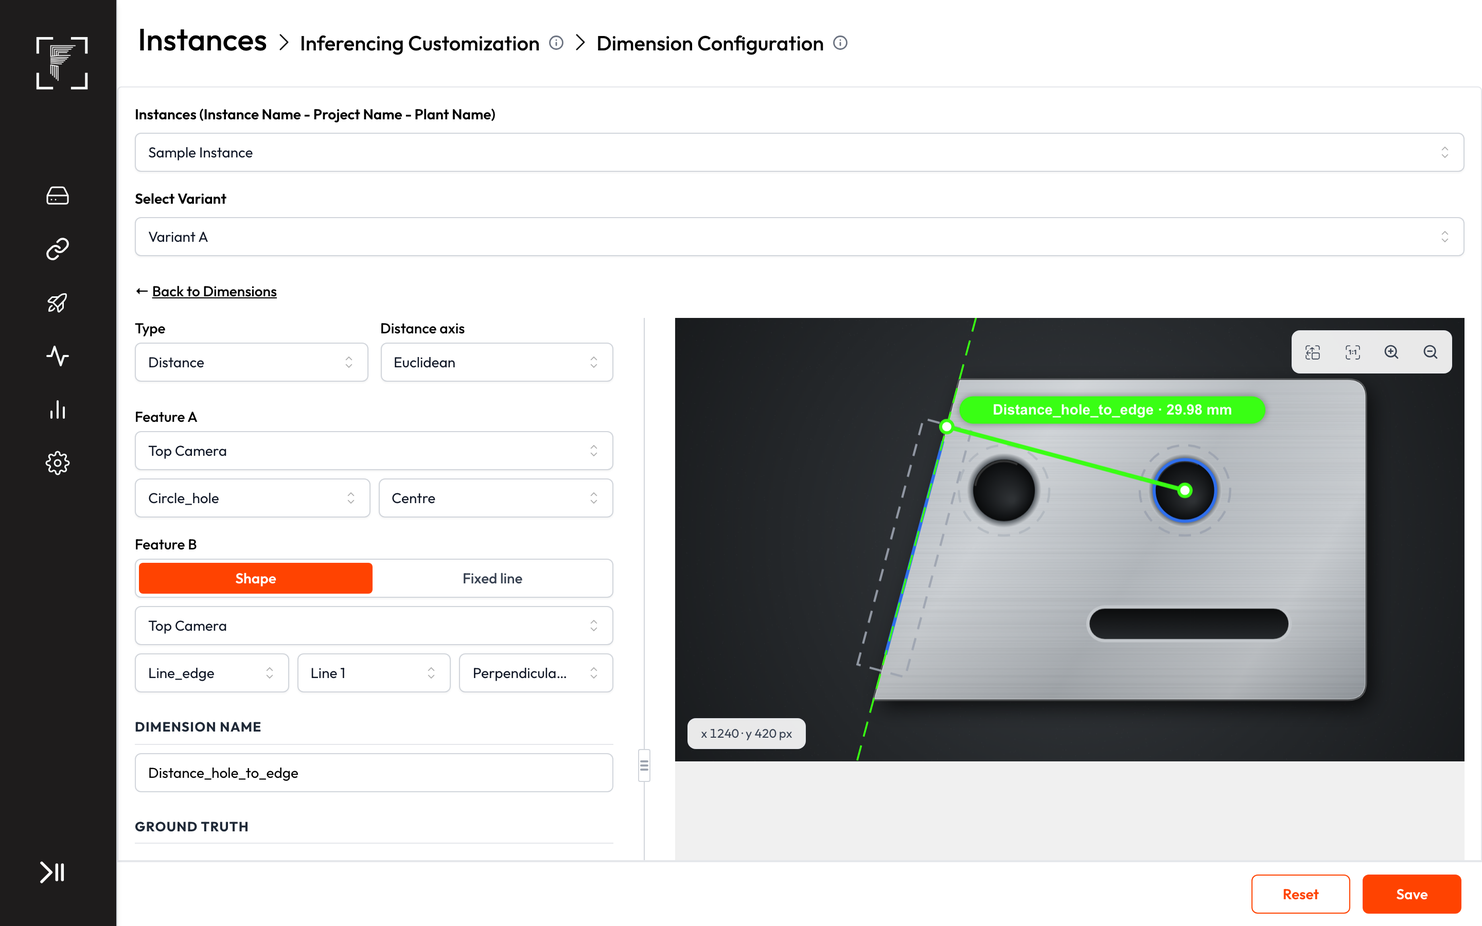
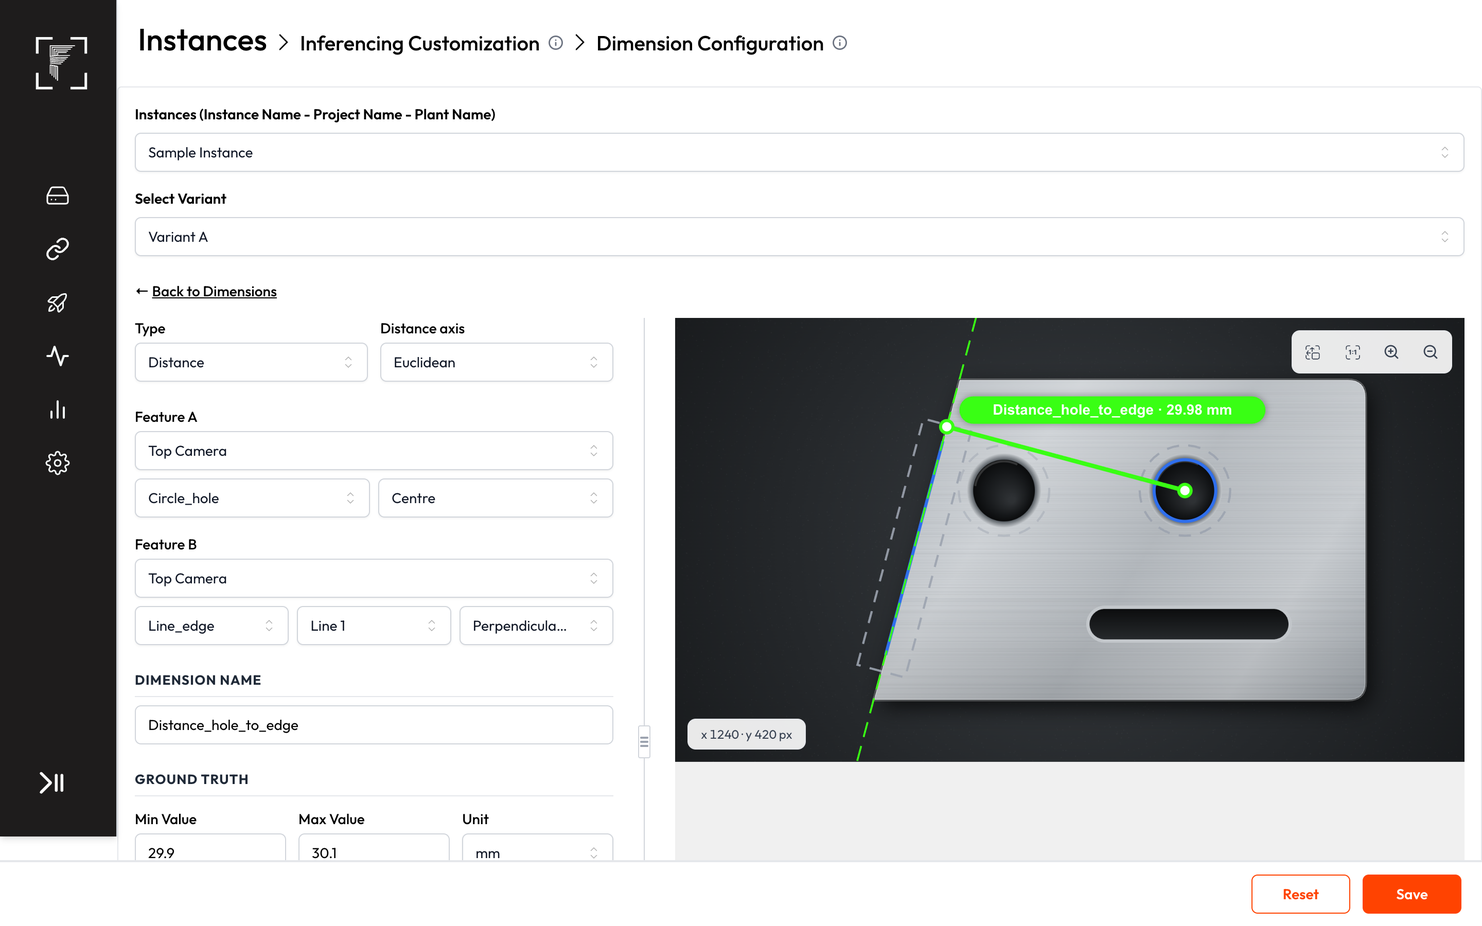
Fixed line in Feature B's Shape dropdown, Angle type rename, analysed-image toggle and colour

diff --git a/dimension-config.html b/dimension-config.html
@@ -197,6 +197,11 @@ table.tbl{min-width:100%;width:100%;border-collapse:collapse;text-indent:0}
 .tip.sbt{border:0;max-width:200px;background:#ff4301;padding:6px 10px;font-weight:600;color:#fff;box-shadow:0 4px 12px rgba(0,0,0,.3)}
 
 /* ===== DECIDED CHANGE (After mode): segmented controls ===== */
+.tgl{display:flex;align-items:center;width:48px;height:24px;padding:4px 0;border-radius:9999px;background:#d1d5db;cursor:pointer;flex-shrink:0}
+.tgl.on{background:#ff4301}
+.tgl-k{width:20px;height:20px;background:#fff;border-radius:9999px;box-shadow:0 4px 6px -1px rgba(0,0,0,.1),0 2px 4px -2px rgba(0,0,0,.1);transition:transform .15s}
+.tgl.on .tgl-k{transform:translateX(24px)}
+.tgl-l{font-size:14px;line-height:20px;font-weight:500;color:#000}
 .seg{display:grid;gap:3px;border:1px solid #d1d5db;border-radius:6px;background:#fff;padding:3px;box-shadow:0 1px 2px 0 rgba(0,0,0,.05)}
 .seg button{border-radius:4px;padding:5px 8px;font-size:14px;line-height:20px;font-weight:500;color:#374151;white-space:nowrap;overflow:hidden;text-overflow:ellipsis}
 .seg button:hover{background:#f3f4f6}
@@ -225,14 +230,14 @@ table.tbl{min-width:100%;width:100%;border-collapse:collapse;text-indent:0}
  * ========================================================================= */
 var Q = new URLSearchParams(location.search);
 var IN_IFRAME = (function () { try { return window.self !== window.top; } catch (e) { return true; } })();
-var VALID_STATES = ['list', 'shape-value', 'distance', 'distance-vertical', 'distance-tilted', 'gt', 'gt-px', 'angle', 'cross', 'saved'];
+var VALID_STATES = ['list', 'shape-value', 'distance', 'distance-vertical', 'distance-tilted', 'line', 'gt', 'gt-px', 'angle', 'cross', 'saved'];
 var MODE = Q.get('mode') === 'today' ? 'today' : 'after';
 var STATE = VALID_STATES.indexOf(Q.get('state')) >= 0 ? Q.get('state') : 'list';
 var SHOW_SWITCH = !IN_IFRAME && Q.get('switch') !== '0';
-var SCROLL_TO = Q.get('scroll') || (STATE === 'gt' || STATE === 'gt-px' ? 'gt' : '');
+var SCROLL_TO = Q.get('scroll') || (STATE === 'gt' || STATE === 'gt-px' ? 'gt' : (STATE === 'line' ? 'col' : ''));
 function isAfter() { return MODE === 'after'; }
 function effState() {
-  if (MODE === 'today' && (STATE === 'distance-vertical' || STATE === 'distance-tilted')) return 'distance';
+  if (MODE === 'today' && (STATE === 'distance-vertical' || STATE === 'distance-tilted' || STATE === 'line')) return 'distance';
   return STATE;
 }
 function nav(to) {
@@ -282,7 +287,7 @@ var DERIV_PREV_LINE = 'Perpendicular from Previous Line';
  * Shared state with the other prototype screens (localStorage)
  * ========================================================================= */
 var LS_KEY = 'fixedline-proto-v2';
-var SHARED_DEFAULTS = { dimType: 'distance', lineMode: 'horizontal', y: 540, x: 960, cx: 960, cy: 540, angle: 30, refAngle: 30, name: 'Distance_hole_to_datum', min: 5, max: 7, unit: 'mm', ratio: 0.05, okColor: '#39FF14', ngColor: '#FF0000', shape: null };
+var SHARED_DEFAULTS = { dimType: 'distance', lineMode: 'horizontal', y: 540, x: 960, cx: 960, cy: 540, angle: 30, refAngle: 30, name: 'Distance_hole_to_datum', min: 5, max: 7, unit: 'mm', ratio: 0.05, okColor: '#39FF14', ngColor: '#FF0000', showLine: false, lineColor: '#FFFF33', shape: null };
 function sanitizeShapeRow(o) {
   if (!o || typeof o !== 'object' || typeof o.name !== 'string' || !o.name.trim()) return null;
   var n = function (v) { var x = Number(v); return v === null || v === undefined || v === '' || !Number.isFinite(x) ? null : x; };
@@ -302,6 +307,8 @@ function sanitizeShared(o) {
   if (['mm', 'px', '°'].indexOf(o.unit) >= 0) d.unit = o.unit;
   if (/^#[0-9A-Fa-f]{6}$/.test(o.okColor || '')) d.okColor = o.okColor;
   if (/^#[0-9A-Fa-f]{6}$/.test(o.ngColor || '')) d.ngColor = o.ngColor;
+  if (typeof o.showLine === 'boolean') d.showLine = o.showLine;
+  if (/^#[0-9A-Fa-f]{6}$/.test(o.lineColor || '')) d.lineColor = o.lineColor;
   return d;
 }
 function readShared() { try { var raw = localStorage.getItem(LS_KEY); return sanitizeShared(raw ? JSON.parse(raw) : null); } catch (e) { return Object.assign({}, SHARED_DEFAULTS); } }
@@ -472,7 +479,13 @@ function hasErrors(e) { return Object.keys(e).length > 0; }
  * ========================================================================= */
 var FIXED = {
   // Copy / options
-  B_KINDS: [['shape', 'Shape'], ['fixed', 'Fixed line']],
+  SHAPE_OPTION: { id: '__fixed', name: 'Fixed line' },   // last entry of a Distance's Feature B Shape dropdown
+  LINE_TYPE_PLACEHOLDER: 'Line type',
+  SHOW_LINE_LABEL: 'Show the fixed line on inferenced image',
+  LINE_COLOUR_LABEL: 'Fixed line colour',
+  DEFAULT_LINE_COLOR: '#FFFF33',  // yellow
+  ANGLE_TYPE_LABEL: 'Angle type',
+  TWO_FEATURES_NAME: 'Between two features',
   LINE_MODES: [['horizontal', 'Horizontal (y =)'], ['vertical', 'Vertical (x =)'], ['tilted', 'Tilted']],
   ANGLE_OPTION: { id: 'fixed', name: 'From a fixed line' },
   ANGLE_LABEL: 'Angle',           // the one box shown for Angle → From a fixed line
@@ -481,7 +494,7 @@ var FIXED = {
   SHOW_READOUT: true,             // live cursor read-out on the single-capture canvas
   PILL_GAP: 6,                    // on-screen px between a label pill and what it measures
 
-  angleModes: function () { return [ANGLE_MODES_TODAY[0], ANGLE_MODES_TODAY[1], FIXED.ANGLE_OPTION, ANGLE_MODES_TODAY[2]]; },
+  angleModes: function () { return [ANGLE_MODES_TODAY[0], ANGLE_MODES_TODAY[1], FIXED.ANGLE_OPTION, { id: 'two', name: FIXED.TWO_FEATURES_NAME }]; },
 
   // Defaults applied when "Fixed line" is picked: Horizontal at the image's middle row.
   applyDefaults: function (fx, cap) { var s = imgSizeOf(cap); fx.mode = 'horizontal'; fx.y = String(s.h / 2); fx.cap = cap; },
@@ -589,15 +602,31 @@ var FIXED = {
         : [['fixed.cx', 'Centre x', fx.cx, 'px', 'fixedCx'], ['fixed.cy', 'Centre y', fx.cy, 'px', 'fixedCy'], ['fixed.angle', 'Angle', fx.angle, '°', 'fixedAngle']];
     return '<div class="g3 gap2">' + cells.map(function (c) { return numberTextField(c[0], c[1], c[2], c[3], c[4], { pattern: 'fixed' }); }).join('') + '</div>';
   },
-  // Distance: Feature B gets "Shape | Fixed line" at its top.
-  featureBBlock: function (f, shapeInner) {
-    var html = '<div class="min0"><label class="fl">Feature B</label><div class="col gap2">' + FIXED.segmented('bKind', FIXED.B_KINDS, f.bKind);
+  // Distance: "Fixed line" is the last entry of Feature B's Shape dropdown. Picking it swaps Part / Point
+  // for a Line type dropdown, then the line's boxes.
+  featureBBlock: function (f) {
+    var html = '<div class="min0"><label class="fl">Feature B</label><div class="col gap2">', warn = '';
     if (f.bKind === 'fixed') {
+      var capObj = capById(f.fixed.cap), types = shapeTypesFor(f.type);
+      var shapes = capObj ? capObj.shapes.filter(function (sh) { return types.indexOf(sh.type) >= 0; }) : [];
       html += selectInput('fixed.cap', { options: captureOptions(), value: f.fixed.cap, placeholder: 'Capture' });
-      html += FIXED.segmented('fixed.mode', FIXED.LINE_MODES, f.fixed.mode) + FIXED.inputs(f.fixed);
-    } else html += shapeInner;
-    html += '</div>' + fieldError('featureB') + '</div>';
+      html += '<div class="g2 gap2">' + selectInput('B.shape', { options: shapes.map(function (sh) { return { id: sh.id, name: sh.name }; }).concat([FIXED.SHAPE_OPTION]), value: FIXED.SHAPE_OPTION.id, placeholder: 'Shape' })
+        + selectInput('fixed.mode', { options: FIXED.LINE_MODES.map(function (m) { return { id: m[0], name: m[1] }; }), value: f.fixed.mode, placeholder: FIXED.LINE_TYPE_PLACEHOLDER }) + '</div>';
+      html += FIXED.inputs(f.fixed);
+    } else {
+      var inner = featurePickerInner(f, 'B', true, true, [FIXED.SHAPE_OPTION]);
+      html += inner.html; warn = inner.warn;
+    }
+    html += '</div>' + warn + fieldError('featureB') + '</div>';
     return html;
+  },
+  // Inference Line Colours: the toggle, and under it (when on) the line's own colour.
+  lineColourBlock: function (f, colour) {
+    var on = !!f.showLine;
+    var h = '<div class="row gap3" style="align-items:center"><div role="switch" aria-checked="' + on + '" class="tgl' + (on ? ' on' : '') + '" data-seg="showLine" data-val="' + (on ? 'off' : 'on') + '"><div class="tgl-k"></div></div>'
+      + '<span class="tgl-l">' + esc(FIXED.SHOW_LINE_LABEL) + '</span></div>';
+    if (on) h += '<div class="g2 gap3">' + colour('lineColor', FIXED.LINE_COLOUR_LABEL, f.lineColor) + '</div>';
+    return h;
   },
   // Angle: one box — the fixed line's angle. It runs through the middle of Feature A's line.
   angleBlock: function (f) {
@@ -711,10 +740,12 @@ function baseForm(S) {
     fixed: { cap: 'top', mode: S.lineMode, y: numText(S.y), x: numText(S.x), cx: numText(S.cx), cy: numText(S.cy), angle: numText(S.angle) },
     name: '', min: '', max: '', unit: 'mm', ratio: numText(S.ratio), offset: 0,
     okColor: S.okColor, ngColor: S.ngColor, labelSize: 'medium',
+    showLine: S.showLine, lineColor: S.lineColor,
   };
 }
 function buildForm(st, S) {
   var f = baseForm(S), after = isAfter();
+  if (Q.get('line') === 'on') f.showLine = true; else if (Q.get('line') === 'off') f.showLine = false;
   if (after && FORCED_LINE[st]) f.fixed.mode = FORCED_LINE[st];
   if (st === 'angle') {
     var useA = S.dimType === 'angle';
@@ -756,7 +787,7 @@ function applySharedToForm(S) {
   var f = App.form; if (!f) return;
   var st = App.formState, fresh = buildForm(st, S);
   var forced = isAfter() && FORCED_LINE[st];
-  f.okColor = S.okColor; f.ngColor = S.ngColor;
+  f.okColor = S.okColor; f.ngColor = S.ngColor; f.lineColor = S.lineColor; if (!Q.get('line')) f.showLine = S.showLine;
   if (OWN_STATES.indexOf(st) >= 0) return;
   ['y', 'x', 'cx', 'cy', 'angle'].forEach(function (k) { f.fixed[k] = fresh.fixed[k]; });
   if (!forced) f.fixed.mode = S.lineMode;
@@ -766,7 +797,12 @@ function applySharedToForm(S) {
 function pushShared(keys) {
   var f = App.form; if (!f) return;
   var st = App.formState;
-  if (OWN_STATES.indexOf(st) >= 0) return;
+  if (OWN_STATES.indexOf(st) >= 0) {
+    // an own-sample form still shares the analysed-image toggle and its colour
+    var own = {}; keys.forEach(function (k) { if (k === 'showLine' || k === 'lineColor') own[k] = f[k]; });
+    if (Object.keys(own).length) writeShared(own);
+    return;
+  }
   var patch = {}, fx = f.fixed, isAng = f.type === 'angle';
   var shapeUnit = function (u) { return u === 'deg' ? '°' : (u === 'px' ? 'px' : 'mm'); };
   keys.forEach(function (k) {
@@ -776,7 +812,7 @@ function pushShared(keys) {
       var n = textToNum(fx[k]), sz = imgSizeOf(fx.cap), hi = { y: sz.h, x: sz.w, cx: sz.w, cy: sz.h, angle: 180 }[k];
       if (n !== null && n >= 0 && n <= hi) { if (!isAng) patch[k] = n; else if (k === 'angle') patch.refAngle = n; }
     }
-    else if (k === 'okColor' || k === 'ngColor') patch[k] = f[k];
+    else if (k === 'okColor' || k === 'ngColor' || k === 'lineColor' || k === 'showLine') patch[k] = f[k];
   });
   if (f.type === 'distance' || f.type === 'angle') {
     var S = readShared(), all = S.dimType !== f.type;
@@ -907,7 +943,7 @@ function shapeNumberField(key, label, value, errKey, o) {
 function sectionHeading(text, right) { return '<div class="sh"><span>' + esc(text) + '</span>' + (right || '') + '</div>'; }
 
 /* ---- FeaturePicker ---- */
-function featurePickerInner(f, side, showCapture, forB) {
+function featurePickerInner(f, side, showCapture, forB, extraShapes) {
   var feat = f[side], capObj = capById(feat.cap), types = shapeTypesFor(f.type);
   var shapes = capObj ? capObj.shapes.filter(function (s) { return types.indexOf(s.type) >= 0; }) : [];
   var shp = shapeOf(feat), mode = pickerMode(f.type);
@@ -920,7 +956,7 @@ function featurePickerInner(f, side, showCapture, forB) {
   if (showCapture) h += selectInput(side + '.cap', { options: captureOptions(), value: feat.cap, placeholder: 'Capture' });
   var showAspect = mode !== 'whole';
   h += '<div class="' + (showAspect ? (split ? 'g3 gap2' : 'g2 gap2') : '') + '">';
-  h += selectInput(side + '.shape', { options: shapes.map(function (s) { return { id: s.id, name: s.name }; }), value: feat.shape, placeholder: 'Shape', disabled: !feat.cap });
+  h += selectInput(side + '.shape', { options: shapes.map(function (s) { return { id: s.id, name: s.name }; }).concat(extraShapes || []), value: feat.shape, placeholder: 'Shape', disabled: !feat.cap });
   if (showAspect && split) {
     h += selectInput(side + '.part', { options: groupOpts, value: feat.part, placeholder: 'Part', disabled: !shp || !groupOpts.length });
     h += selectInput(side + '.point', { options: pointOpts, value: feat.point, placeholder: 'Point', disabled: !pointOpts.length });
@@ -928,7 +964,7 @@ function featurePickerInner(f, side, showCapture, forB) {
     h += selectInput(side + '.part', { options: groupOpts, value: feat.part, placeholder: 'Part', disabled: !shp || !groupOpts.length });
   }
   h += '</div>';
-  return { html: h, warn: feat.cap && !shapes.length ? '<p class="hint-amber">This capture has no shape that a ' + (mode === 'point' ? 'point' : 'measurement') + ' of this kind can use.</p>' : '' };
+  return { html: h, warn: feat.cap && !shapes.length && !(extraShapes && extraShapes.length) ? '<p class="hint-amber">This capture has no shape that a ' + (mode === 'point' ? 'point' : 'measurement') + ' of this kind can use.</p>' : '' };
 }
 function featurePicker(f, side, label, showCapture, forB) {
   var inner = featurePickerInner(f, side, showCapture, forB);
@@ -946,7 +982,7 @@ function renderForm(f) {
   // Type + sub-field
   h += '<div class="gap3 ' + (hasSub ? 'g2' : 'g1') + '">';
   h += selectField('type', 'Type', { options: TYPES, value: f.type });
-  if (isA) h += selectField('angleMode', 'Angle from', { options: isAfter() ? FIXED.angleModes() : ANGLE_MODES_TODAY, value: f.angleMode, errKey: 'angle' });
+  if (isA) h += selectField('angleMode', isAfter() ? FIXED.ANGLE_TYPE_LABEL : 'Angle from', { options: isAfter() ? FIXED.angleModes() : ANGLE_MODES_TODAY, value: f.angleMode, errKey: 'angle' });
   if (showAxis) h += selectField('distanceAxis', 'Distance axis', { options: DIST_AXES, value: f.distanceAxis, errKey: 'distanceAxis' });
   h += '</div>';
   // Features
@@ -954,7 +990,7 @@ function renderForm(f) {
   if (!isD) h += selectField('sharedCap', 'Capture', { options: captureOptions(), value: f.A.cap, placeholder: 'Capture' });
   var reqB = isD || (isA && f.angleMode === 'two');
   h += featurePicker(f, 'A', reqB ? 'Feature A' : 'Feature', isD, false);
-  if (isD && isAfter()) h += FIXED.featureBBlock(f, featurePickerInner(f, 'B', true, true).html);
+  if (isD && isAfter()) h += FIXED.featureBBlock(f);
   else if (reqB) h += featurePicker(f, 'B', 'Feature B', isD, isD);
   if (fA) h += FIXED.angleBlock(f);
   h += '</div>';
@@ -989,8 +1025,9 @@ function renderForm(f) {
     var c = COLOR_OPTIONS.filter(function (x) { return x.id === value; })[0];
     return '<div class="min0">' + fieldLabel(label) + '<div class="row gap2"><span class="swatch" style="background:' + (c ? c.id : 'transparent') + '"></span>' + selectInput(key, { options: COLOR_OPTIONS, value: value }) + '</div></div>';
   };
-  h += '<div class="col gap3">' + sectionHeading(quality ? 'Inference Line Colour' : 'Inference Line Colours') + '<div class="g2 gap3">'
-    + (quality ? colour('okColorQ', 'Colour', f.okColor) : colour('okColor', 'OK colour', f.okColor) + colour('ngColor', 'NG colour', f.ngColor)) + '</div></div>';
+  h += '<div class="col gap3" id="colBlock">' + sectionHeading(quality ? 'Inference Line Colour' : 'Inference Line Colours') + '<div class="g2 gap3">'
+    + (quality ? colour('okColorQ', 'Colour', f.okColor) : colour('okColor', 'OK colour', f.okColor) + colour('ngColor', 'NG colour', f.ngColor)) + '</div>'
+    + (fixedActive(f) ? FIXED.lineColourBlock(f, colour) : '') + '</div>';
   h += selectField('labelSize', 'Label Text Size', { options: LABEL_SIZES, value: f.labelSize });
   h += '</div>';
   return h;
@@ -1437,7 +1474,17 @@ function onSelect(key, val) {
   }
   if (key === 'distanceAxis') { f.distanceAxis = val; renderMain(); afterFormChange(); return; }
   if (key === 'sharedCap') { f.A = emptyFeature(val); f.B = emptyFeature(f.angleMode === 'two' ? val : null); f.fixed.cap = val; renderMain(); afterFormChange(); return; }
-  if (key === 'fixed.cap') { f.fixed.cap = val; renderMain(); afterFormChange(); return; }
+  if (key === 'fixed.cap') { f.fixed.cap = val; f.B = emptyFeature(val); if (isCross(f) && f.unit === 'px') f.unit = 'mm'; renderMain(); afterFormChange(); return; }
+  if (key === 'fixed.mode') { if (f.fixed.mode === val) return; f.fixed.mode = val; renderMain(); afterFormChange(['lineMode']); return; }
+  if (key === 'B.shape' && val === FIXED.SHAPE_OPTION.id) {
+    if (f.bKind === 'fixed') return;
+    f.bKind = 'fixed'; FIXED.applyDefaults(f.fixed, f.B.cap || f.A.cap || 'top');
+    f.showLine = false; f.lineColor = FIXED.DEFAULT_LINE_COLOR;   // a newly picked fixed line starts off, in yellow
+    if (isCross(f) && f.unit === 'px') f.unit = 'mm';
+    renderMain(); afterFormChange(['lineMode', 'y', 'showLine', 'lineColor']); return;
+  }
+  if (key === 'B.shape' && f.bKind === 'fixed') { f.bKind = 'shape'; f.B = { cap: f.fixed.cap, shape: val, part: null, point: null }; renderMain(); afterFormChange(); return; }
+  if (key === 'lineColor') { f.lineColor = val; renderMain(); afterFormChange(['lineColor']); return; }
   if (key === 'unit') { f.unit = val; renderMain(); afterFormChange(['unit']); return; }
   if (key === 'okColor' || key === 'ngColor') { f[key] = val; renderMain(); afterFormChange([key]); return; }
   if (key === 'okColorQ') { f.okColor = val; f.ngColor = val; renderMain(); afterFormChange(['okColor', 'ngColor']); return; }
@@ -1463,14 +1510,7 @@ function onSelect(key, val) {
 }
 function onSeg(key, val) {
   var f = App.form;
-  if (key === 'bKind') {
-    if (f.bKind === val) return;
-    f.bKind = val;
-    var k = [];
-    if (val === 'fixed') { FIXED.applyDefaults(f.fixed, f.A.cap || 'top'); k = ['lineMode', 'y']; }
-    renderMain(); afterFormChange(k); return;
-  }
-  if (key === 'fixed.mode') { if (f.fixed.mode === val) return; f.fixed.mode = val; renderMain(); afterFormChange(['lineMode']); }
+  if (key === 'showLine') { f.showLine = val === 'on'; renderMain(); afterFormChange(['showLine']); }
 }
 function onInput(el) {
   var f = App.form; if (!f) return;
@@ -1504,7 +1544,7 @@ function doSave() {
   toast('success', App.editingName ? 'Dimension updated' : 'Dimension created');
   var f = App.form;
   if (App.formState === 'shape-value' && isAfter()) writeShared({ shape: { name: f.name, min: textToNum(f.min), max: textToNum(f.max), unit: f.unit === 'px' ? 'px' : 'mm', ratio: textToNum(f.ratio) } });
-  pushShared(f.type === 'angle' ? ['angle', 'name', 'min', 'max', 'unit', 'ratio'] : ['lineMode', 'y', 'x', 'cx', 'cy', 'angle', 'name', 'min', 'max', 'unit', 'ratio']);
+  pushShared((f.type === 'angle' ? ['angle', 'name', 'min', 'max', 'unit', 'ratio'] : ['lineMode', 'y', 'x', 'cx', 'cy', 'angle', 'name', 'min', 'max', 'unit', 'ratio']).concat(fixedActive(f) ? ['showLine', 'lineColor'] : []));
   goState('saved', 'edge-dim-saved');
 }
 function zoomBy(factor) {
@@ -1598,6 +1638,7 @@ enterState(effState());
 // scroll=preview: bring the bottom of the preview column just above the footer (used for screenshots).
 function applyScroll() {
   if (SCROLL_TO === 'preview') { var pc = document.getElementById('previewCol'); if (pc) document.body.scrollTop = pc.getBoundingClientRect().bottom + document.body.scrollTop - (window.innerHeight - 64) + 12; }
+  else if (SCROLL_TO === 'col') { var cb = document.getElementById('colBlock'); if (cb) document.body.scrollTop = cb.getBoundingClientRect().bottom + document.body.scrollTop - (window.innerHeight - 64) + 16; }
   else if (SCROLL_TO === 'gt') { var gb = document.getElementById('gtBlock'); if (gb) document.body.scrollTop = gb.getBoundingClientRect().bottom + document.body.scrollTop - (window.innerHeight - 64) + 16; }
   else if (Number(SCROLL_TO)) document.body.scrollTop = Number(SCROLL_TO);
 }

diff --git a/analysed-image.html b/analysed-image.html
@@ -304,7 +304,8 @@
   var STATE = ['ok', 'ng', 'angle', 'cross'].indexOf(qs.get('state')) >= 0 ? qs.get('state') : 'ok';
   var KEY = 'fixedline-proto-v2';
   var DEFAULTS = { dimType: 'distance', lineMode: 'horizontal', y: 540, x: 960, cx: 960, cy: 540, angle: 30, refAngle: 30,
-    name: 'Distance_hole_to_datum', min: 5, max: 7, unit: 'mm', ratio: 0.05, okColor: '#39FF14', ngColor: '#FF0000' };
+    name: 'Distance_hole_to_datum', min: 5, max: 7, unit: 'mm', ratio: 0.05, okColor: '#39FF14', ngColor: '#FF0000',
+    showLine: false, lineColor: '#FFFF33' };
   // Angle → From a fixed line: the line's angle (refAngle) is its only setting.
   var ANGLE_DEFAULTS = { refAngle: 30, name: 'Angle_edge_to_ref', min: 25, max: 35, unit: 'degrees' };
   var HEX = /^#[0-9a-fA-F]{6}$/;
@@ -323,6 +324,9 @@
     if (['horizontal', 'vertical', 'tilted'].indexOf(c.lineMode) < 0) c.lineMode = DEFAULTS.lineMode;
     if (!HEX.test(String(c.okColor))) c.okColor = DEFAULTS.okColor;
     if (!HEX.test(String(c.ngColor))) c.ngColor = DEFAULTS.ngColor;
+    if (!HEX.test(String(c.lineColor))) c.lineColor = DEFAULTS.lineColor;
+    // "Show the fixed line on inferenced image" (?line=on|off overrides, for screenshots)
+    c.showLine = qs.get('line') === 'on' ? true : qs.get('line') === 'off' ? false : raw.showLine === true;
     if (!(c.ratio > 0)) c.ratio = DEFAULTS.ratio;
     if (c.min > c.max) { var t = c.min; c.min = c.max; c.max = t; }
     c.unit = String(c.unit || DEFAULTS.unit);
@@ -658,7 +662,7 @@
     }
     var pass = within(value, c), color = pass ? c.okColor : c.ngColor;
     var seg = clipLine(L);
-    if (seg) cvDashed(ctx, seg, color, 2);
+    if (seg && c.showLine) cvDashed(ctx, seg, c.lineColor, 2);
     var tA = [foot[0] - L.v[0], foot[1] - L.v[1]], tB = [foot[0] + L.v[0], foot[1] + L.v[1]];
     tick(ctx, foot, tA, tB, HOLE, color);
     cvDot(ctx, HOLE, color, 5); cvDot(ctx, foot, color, 5);
@@ -696,7 +700,7 @@
     var angle = Math.abs(deg(Math.atan2(u[0] * L.v[1] - u[1] * L.v[0], dot(u, L.v))));
     var pass = within(Math.round(angle * 1000) / 1000, c), color = pass ? c.okColor : c.ngColor;
     cvLine(ctx, e1, e2, color, 2);
-    if (seg) cvDashed(ctx, seg, color, 2);
+    if (seg && c.showLine) cvDashed(ctx, seg, c.lineColor, 2);
     // Opening between the two directions, never the reflex side; drawn on the side the value can grow away from.
     var a1 = deg(Math.atan2(u[1], u[0])), a2 = deg(Math.atan2(L.v[1], L.v[0]));
     var diff = ((a2 - a1 + 540) % 360) - 180, start = diff >= 0 ? a1 : a2, sweep = Math.abs(diff);
@@ -778,13 +782,15 @@
   function buildImages() {
     var top, pass = true, list;
     if (STATE === 'cross') {
-      var topPlain = renderTop(EDGE_OK), side = renderSide(), cross = renderCross(topPlain, side);
+      // Cross-capture: no combined result image (its rendering is switched off). After: the fixed line
+      // (x = 960 px on Side Camera) is drawn on Side Camera's own analysed image when the toggle is on.
+      var cc = readConfig(), topPlain = renderTop(EDGE_OK), side = renderSide();
+      if (MODE === 'after' && cc.showLine) cvDashed(side.getContext('2d'), [[960, 0], [960, H]], cc.lineColor, 2);
       list = [
         { captureName: 'Top Camera', name: 'Search Area 1', result: true, src: topPlain.toDataURL('image/jpeg', 0.92) },
-        { captureName: 'Side Camera', name: 'Search Area 1', result: true, src: side.toDataURL('image/jpeg', 0.92) },
-        { captureName: 'Cross-capture', name: cross.name, result: cross.pass, src: cross.cv.toDataURL('image/png') }
+        { captureName: 'Side Camera', name: 'Search Area 1', result: true, src: side.toDataURL('image/jpeg', 0.92) }
       ];
-      return { list: list, start: 2 };
+      return { list: list, start: 1 };
     }
     if (STATE === 'angle') {
       top = renderTop(EDGE_OK);

diff --git a/index.html b/index.html
@@ -69,6 +69,7 @@
     { id: 'edge-dim-list', label: 'Dimensions table', file: 'dimension-config.html', state: 'list' },
     { id: 'edge-dim-shape-value', label: 'Measured value', file: 'dimension-config.html', state: 'shape-value' },
     { id: 'edge-dim-distance', label: 'Distance to a fixed line', file: 'dimension-config.html', state: 'distance' },
+    { id: 'edge-dim-line', label: 'Show the line on the analysed image', file: 'dimension-config.html', state: 'line' },
     { id: 'edge-dim-units', label: 'Ground Truth in px', file: 'dimension-config.html', state: 'gt-px' },
     { id: 'edge-dim-angle', label: 'Angle from a fixed line', file: 'dimension-config.html', state: 'angle' },
     { id: 'edge-dim-cross', label: 'Cross-capture fixed line', file: 'dimension-config.html', state: 'cross' },
@@ -76,6 +77,7 @@
     { id: 'edge-analysed', label: 'Analysed image: OK', file: 'analysed-image.html', state: 'ok' },
     { id: 'edge-analysed-ng', label: 'Analysed image: NG', file: 'analysed-image.html', state: 'ng' },
     { id: 'edge-analysed-angle', label: 'Analysed image: angle', file: 'analysed-image.html', state: 'angle' },
+    { id: 'edge-analysed-cross', label: 'Analysed image: cross-capture', file: 'analysed-image.html', state: 'cross' },
   ];
   const $ = (id) => document.getElementById(id);
   let mode = 'after';
@@ -91,7 +93,7 @@
     const q = [];
     if (step.state) q.push('state=' + step.state);
     q.push('mode=' + mode);
-    q.push('v=20261026a');
+    q.push('v=20261026b');
     if (extra) Object.keys(extra).forEach((k) => q.push(k + '=' + encodeURIComponent(extra[k])));
     return step.file + '?' + q.join('&');
   }
